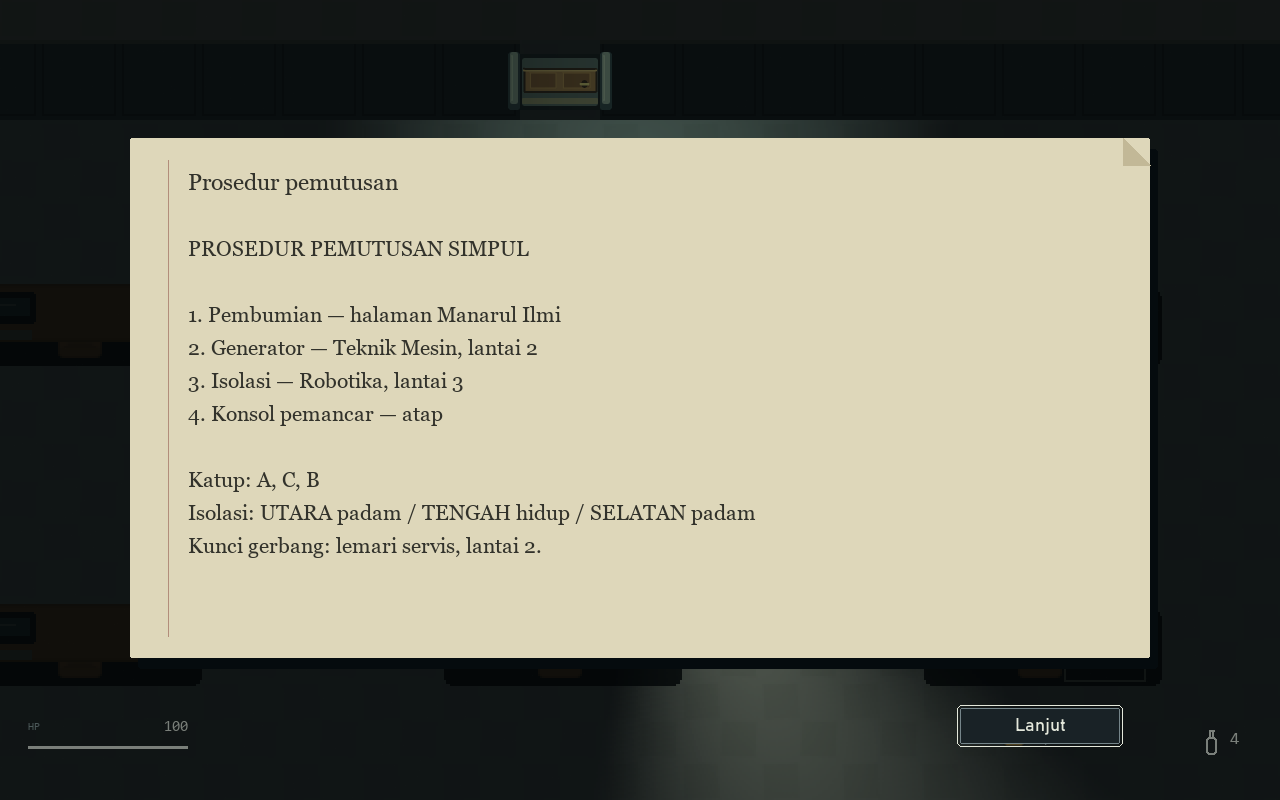
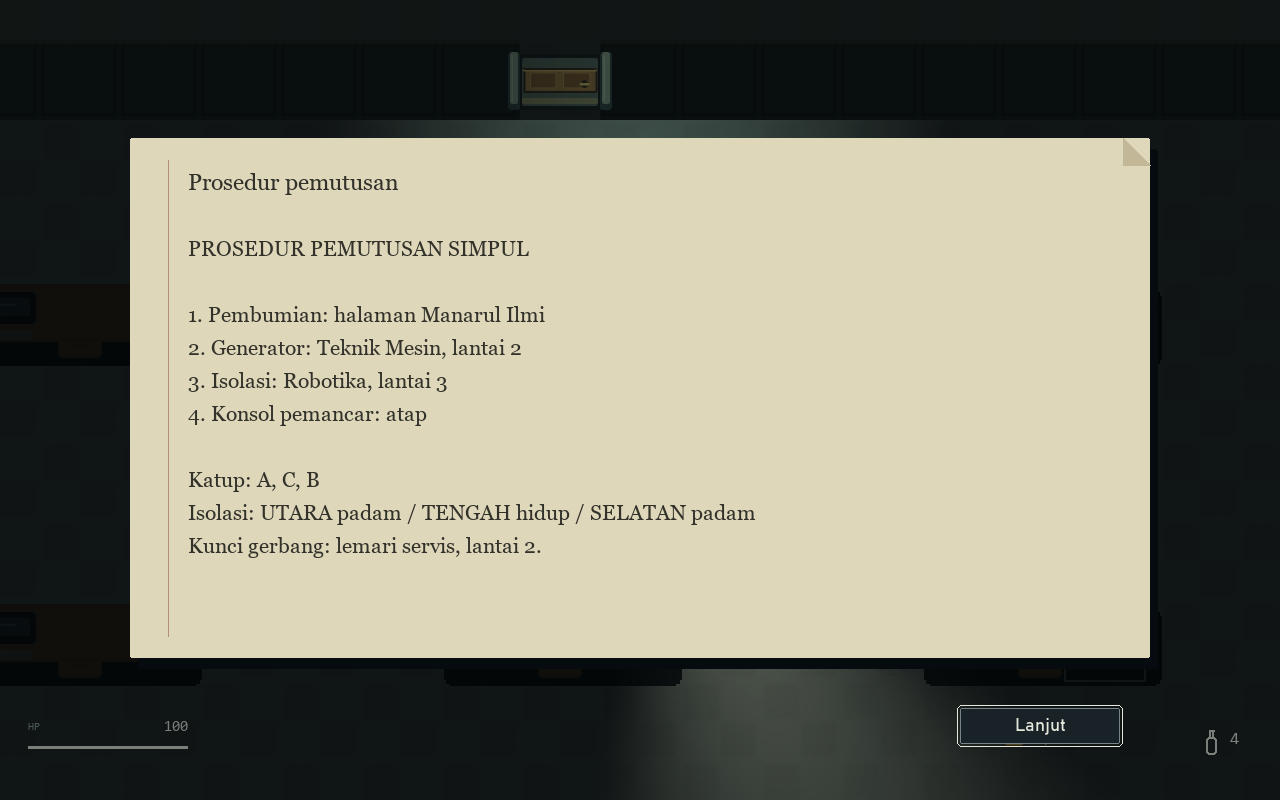
style(copy): polish player-facing wording

Changed region(s): [[0.2188, 0.375, 0.4375, 0.5312]]

diff --git a/horror/narrative.py b/horror/narrative.py
@@ -6,14 +6,14 @@ LEGACY_DOCUMENTS={"Catatan Nara":"rak","Catatan perpustakaan":"rak","Diagram":"j
                   "Buku jaga":"jaga","Kamar Nara":"foto","SIMPUL":"server","Mikrofilm":"film",
                   "Daftar evakuasi":"katalog","Laporan insiden":"insiden"}
 DOCUMENT_TEXT={
-    "rak":"Loker rektorat · 04\nUrutan rak yang kita lewati:\n2 — 4 — 1 — 3\n\nYang berpita merah itu Juru Malam. Jangan tunggu dia menoleh.\n— Nara",
-    "jalur":"KARTU AKSES: kotak sekring Kimia + Elektro\n\nUrutan pemulihan:\n1. AIR — Teknik Lingkungan\n2. MESIN — Teknik Mesin\n3. DATA — Sistem Informasi\n\nSesudahnya: pemancar Taman Alumni.",
+    "rak":"Loker rektorat · 04\nUrutan rak yang kita lewati:\n2, 4, 1, 3\n\nYang berpita merah itu Juru Malam. Jangan tunggu dia menoleh.\nNara",
+    "jalur":"KARTU AKSES: kotak sekring Kimia + Elektro\n\nUrutan pemulihan:\n1. AIR: Teknik Lingkungan\n2. MESIN: Teknik Mesin\n3. DATA: Sistem Informasi\n\nSesudahnya: pemancar Taman Alumni.",
     "jaga":"23.18   Nara menitipkan kartu asrama. Menuju perpustakaan.\n23.47   GERBANG GAGAL.\n\nKunci mekanis: ruang servis pemancar.\nJangan buka jalur utama selama jaringan masih mengulang.\n\nTanda tangan petugas: tidak terbaca.",
-    "foto":"17 / 08 / 1998\n\nKalau aku terdengar seperti rekaman, tanyakan warna tasmu.\n\nSandi server: tahun pada cap proyek, bukan ulang tahunku.\n— Nara",
+    "foto":"17 / 08 / 1998\n\nKalau aku terdengar seperti rekaman, tanyakan warna tasmu.\n\nSandi server: tahun pada cap proyek, bukan ulang tahunku.\nNara",
     "film":"CATATAN 04 / REKAMAN 17 / EVAKUASI 09\n\nBaca bundel sesuai urutan kejadian. Lemari katalog: satu lantai di bawah.\n\nDaftar evakuasi:\nkotak properti dipindahkan ke Graha ITS.",
     "katalog":"Kunci servis: kotak properti Graha.\n\nPanel pemancar:\nUTARA: hidup\nTENGAH: padam\nSELATAN: hidup\n\nPintu atap tidak dikunci.\n\nIa tidak berdiri di bawah lampu. Ia menunggu di bayangannya.",
-    "nara":"Arga,\nPentanahan dulu, lalu generator cadangan, isolasi pemancar, baru konsol atap.\n\nLaporan insidennya ada di rektorat. Aku menunggu di kantin bersama petugas yang terluka.\n\nJangan jawab suara dari ponsel.\n— Nara",
-    "insiden":"PROSEDUR PEMUTUSAN SIMPUL\n\n1. Pembumian — halaman Manarul Ilmi\n2. Generator — Teknik Mesin, lantai 2\n3. Isolasi — Robotika, lantai 3\n4. Konsol pemancar — atap\n\nKatup: A, C, B\nIsolasi: UTARA padam / TENGAH hidup / SELATAN padam\nKunci gerbang: lemari servis, lantai 2.",
+    "nara":"Arga,\nPentanahan dulu, lalu generator cadangan, isolasi pemancar, baru konsol atap.\n\nLaporan insidennya ada di rektorat. Aku menunggu di kantin bersama petugas yang terluka.\n\nJangan jawab suara dari ponsel.\nNara",
+    "insiden":"PROSEDUR PEMUTUSAN SIMPUL\n\n1. Pembumian: halaman Manarul Ilmi\n2. Generator: Teknik Mesin, lantai 2\n3. Isolasi: Robotika, lantai 3\n4. Konsol pemancar: atap\n\nKatup: A, C, B\nIsolasi: UTARA padam / TENGAH hidup / SELATAN padam\nKunci gerbang: lemari servis, lantai 2.",
 }
 
 

diff --git a/horror/story_data.py b/horror/story_data.py
@@ -33,7 +33,7 @@ NOTES={
     "rak":("Catatan perpustakaan","Sketsa loker rektorat, empat roda angka. 'Urutan rak yang kita lewati: 2 - 4 - 1 - 3.' Di pinggir halaman, Nara menggambar sosok dengan pita merah di lehernya: Juru Malam."),
     "jalur":("Diagram distribusi","Kartu akses membuka kotak sekring Teknik Kimia dan Elektro. Pulihkan AIR di Teknik Lingkungan, MESIN di Teknik Mesin, lalu DATA di Sistem Informasi. Sesudahnya periksa pemancar Taman Alumni."),
     "rekaman":("Log pemancar","Semua pesan terkirim pukul 23.47 dari jaringan SIMPUL. Gerbang tidak merespons. Suara Nara menyuruhmu memeriksa buku jaga, tetapi ia mengucapkan namamu dengan jeda yang salah."),
-    "jaga":("Buku jaga","23.18 — Nara menitipkan kartu asrama sebelum menuju perpustakaan. 23.47 — GERBANG GAGAL. Catatan petugas: 'Satu kunci mekanis disimpan di ruang servis pemancar. Jangan buka jalur utama selama jaringan masih mengulang.'"),
+    "jaga":("Buku jaga","23.18: Nara menitipkan kartu asrama sebelum menuju perpustakaan. 23.47: GERBANG GAGAL. Catatan petugas: 'Satu kunci mekanis disimpan di ruang servis pemancar. Jangan buka jalur utama selama jaringan masih mengulang.'"),
     "foto":("Foto di asrama","Foto Nara dan Arga di depan lab. Jas biru Arga, tas kuning yang dijahit ulang; jepit putih Nara. Cap proyek: 17/08/1998. Di baliknya: 'Kalau aku terdengar seperti rekaman, tanyakan warna tasmu. Sandi server: tahun pada cap proyek, bukan ulang tahunku.'"),
     "server":("SIMPUL / catatan server","SIMPUL menyimpan pola suara kampus, lalu memutarnya kembali ketika mendeteksi orang tertinggal. Uji pertama: 1998. Arsip kertas belum dihapus, tersimpan di mikrofilm perpustakaan lantai 3. Frekuensi perawatan: 107,8 MHz."),
     "film":("Mikrofilm 1998","Tiga bundel harus dibaca dalam urutan kejadian: CATATAN 04, REKAMAN 17, EVAKUASI 09. Lemari katalog berada satu lantai di bawah. Daftar barang yang dievakuasi menyebut kotak properti Graha ITS."),

diff --git a/tools/package_release.py b/tools/package_release.py
@@ -35,7 +35,7 @@ def main():
     shutil.copyfile(ROOT / "CHANGELOG.md", dist / "CHANGELOG.md")
     readme = dist / "BACA_DULU.txt"
     guide = (ROOT / "docs/PLAYER_GUIDE.md").read_text(encoding="utf-8")
-    readme.write_text(f"SETELAH JAM MALAM — Versi {VERSION} / Windows x64\n\n" + guide, encoding="utf-8")
+    readme.write_text(f"SETELAH JAM MALAM | Versi {VERSION} / Windows x64\n\n" + guide, encoding="utf-8")
     archive = dist / "SetelahJamMalam-Windows-x64.zip"
     files = [exe, readme, dist / "THIRD_PARTY_NOTICES.md", dist / "CHANGELOG.md",
              docs / "ITS_REFERENCES.md", docs / "PLAYER_GUIDE.md",

diff --git a/main.py b/main.py
@@ -5,7 +5,7 @@ from pathlib import Path
 
 
 def main():
-    parser = argparse.ArgumentParser(description="Setelah Jam Malam — ITS Horror Game")
+    parser = argparse.ArgumentParser(description="Setelah Jam Malam | ITS Horror Game")
     parser.add_argument("--seed", type=int, help="Start a repeatable map immediately")
     parser.add_argument("--story", action="store_true", help="Start the story campaign")
     parser.add_argument("--load-slot", choices=("auto","1","2","3"), help="Load a story save slot")

diff --git a/tests/test_presentation.py b/tests/test_presentation.py
@@ -100,7 +100,7 @@ class PresentationTests(unittest.TestCase):
             rect=(50,200,385 if key=="foto" else 471,390)
             bottom=reader.fitted(a.screen,DOCUMENT_TEXT[key],rect,21,"georgia")
             self.assertLessEqual(bottom,rect[1]+rect[3])
-        self.assertIn("2 — 4 — 1 — 3",DOCUMENT_TEXT["rak"])
+        self.assertIn("2, 4, 1, 3",DOCUMENT_TEXT["rak"])
         self.assertIn("A, C, B",DOCUMENT_TEXT["insiden"])
 
 

diff --git a/docs/ITS_REFERENCES.md b/docs/ITS_REFERENCES.md
@@ -1,10 +1,10 @@
-# Acuan ITS — rilis 0.1
+# Acuan ITS untuk rilis 0.1
 
 Menu menggunakan tiga foto gedung asli dengan skala proporsional, palet horor, kontur, pencahayaan dan kabut saat runtime. Foto sumber tetap utuh. Menu memakai palet malam; exterior pembuka memakai senja. Gambar berganti setiap sembilan detik dan memenuhi viewport dengan crop proporsional tanpa meregangkan bangunan.
 
 | Media | Publikasi resmi | Berkas yang dibundel |
 | --- | --- | --- |
-| Rektorat dan kolam depan | [UKP ITS — Tentang](https://www.its.ac.id/ukp/tentang/) | [Kolam-Rektorat.jpg](https://www.its.ac.id/ukp/wp-content/uploads/sites/167/2024/08/Kolam-Rektorat.jpg) → `assets/campus/photos/rektorat.jpg` |
+| Rektorat dan kolam depan | [Tentang UKP ITS](https://www.its.ac.id/ukp/tentang/) | [Kolam-Rektorat.jpg](https://www.its.ac.id/ukp/wp-content/uploads/sites/167/2024/08/Kolam-Rektorat.jpg) → `assets/campus/photos/rektorat.jpg` |
 | Tower 2 | [Berita peresmian Tower 2 ITS](https://www.its.ac.id/news/its-resmikan-tower-2-guna-menunjang-kebutuhan-akademik/) | [DJI_0954-scaled.jpg](https://www.its.ac.id/news/wp-content/uploads/sites/2/2023/08/DJI_0954-scaled.jpg) → `assets/campus/photos/tower2.jpg` |
 | Informatika saat senja, sesuai foto referensi pengguna | [Departemen Teknik Informatika ITS](https://www.its.ac.id/informatika/) | [IFl-1.jpg](https://www.its.ac.id/informatika/wp-content/uploads/sites/44/2018/03/IFl-1.jpg) → `assets/campus/photos/informatika.jpg` |
 | Lambang ITS berwarna | [Panduan Identitas Visual ITS](https://www.its.ac.id/tentang/panduan-identitas-visual/) → folder Lambang | [LAMBANG ITS.png](https://drive.google.com/file/d/1HNRAJR0T24f42mlCu0iTwwlJIz0YzgXz/view) → `assets/branding/its-crest.png` |
@@ -20,4 +20,4 @@ Lantai dasar kini level tersendiri **64×48 tile / 2560×1920 unit**. Lab proyek
 
 Lantai 2 dan 3 masing-masing **38×44 tile**. Lantai 3 mengikuti topologi/lab pada denah UTBK. **Ruangan dasar dan lantai 2 diadaptasi untuk cerita**, karena denah lengkap kedua lantai itu tidak tersedia dalam folder acuan. Jumlah tile, fungsi ruang proyek, furnitur dan detail akses bukan ukuran bangunan hasil pengukuran atau replika 1:1. [Fasilitas Informatika ITS](https://www.its.ac.id/informatika/fasilitas/) menjadi acuan fungsi umum ruang.
 
-Peta kampus yang lebih luas tetap memakai posisi relatif dari referensi sebelumnya. Tower 2 pada home screen berbeda dari menara pemancar fiktif dalam cerita. Save versi 1–6 tetap dimuat: progres dan barang dijaga; posisi pada interior dasar lama dipindah ke area baru. Prolog lama yang masih aktif dimulai kembali dengan naskah baru; prolog yang sudah selesai tidak diputar ulang.
+Peta kampus yang lebih luas tetap memakai posisi relatif dari referensi sebelumnya. Tower 2 pada home screen berbeda dari menara pemancar fiktif dalam cerita. Save versi 1 sampai 6 tetap dimuat: progres dan barang dijaga; posisi pada interior dasar lama dipindah ke area baru. Prolog lama yang masih aktif dimulai kembali dengan naskah baru; prolog yang sudah selesai tidak diputar ulang.

diff --git a/THIRD_PARTY_NOTICES.md b/THIRD_PARTY_NOTICES.md
@@ -6,10 +6,10 @@ Layout, susunan furnitur, detail kampus, HUD, pencahayaan dan sebagian ambience/
 
 Runtime dan build menggunakan:
 
-- **Python 3.12.10** — https://www.python.org/ — license disertakan dalam folder `licenses` pada paket portable.
-- **pygame-ce 2.5.8** — https://github.com/pygame-community/pygame-ce — teks LGPL yang disertakan oleh distribusi pygame-ce disalin ke folder `licenses`.
-- **SDL dan library audio/gambar terkait** yang dikemas oleh distribusi pygame-ce — informasi komponen tersedia di repositori pygame-ce.
-- **PyInstaller 6.22.3** untuk membuat executable — https://pyinstaller.org/.
+- **Python 3.12.10** (https://www.python.org/). Lisensi disertakan dalam folder `licenses` pada paket portable.
+- **pygame-ce 2.5.8** (https://github.com/pygame-community/pygame-ce). Teks LGPL yang disertakan oleh distribusi pygame-ce disalin ke folder `licenses`.
+- **SDL dan library audio/gambar terkait** dikemas oleh distribusi pygame-ce. Informasi komponen tersedia di repositori pygame-ce.
+- **PyInstaller 6.22.3** digunakan untuk membuat executable (https://pyinstaller.org/).
 
 Font antarmuka menggunakan font yang tersedia di sistem Windows; file font Windows tidak disalin ke paket game. pygame menyediakan fallback jika font pilihan tidak tersedia.
 
@@ -38,8 +38,8 @@ Cerita Nara dan puzzle dibuat untuk proyek ini. Inspirasi Ao Oni terbatas pada r
 
 ## Musik alternatif dan ambience
 
-- **Night Shift**, iamoneabe, CC0: https://opengameart.org/content/night-shift — berkas `nightshift_0.mp3`, musik alternatif 269,27 detik; gain/crossfade saat runtime.
-- **Crickets Ambient Noise — loopable**, Wolfgang_ / Ted Kerr, CC0: https://opengameart.org/content/crickets-ambient-noise-loopable — `crickets_1.mp3`, ambience luar ruang dengan gain transisi.
+- **Night Shift**, iamoneabe, CC0 (https://opengameart.org/content/night-shift). Berkas `nightshift_0.mp3` menyediakan musik alternatif 269,27 detik dengan gain/crossfade saat runtime.
+- **Crickets Ambient Noise (loopable)**, Wolfgang_ / Ted Kerr, CC0 (https://opengameart.org/content/crickets-ambient-noise-loopable). Berkas `crickets_1.mp3` menyediakan ambience luar ruang dengan gain transisi.
 - Sembilan klip tambahan dari **16 Monster Growls** yang sama (StarNinjas, CC0). Total empat rekaman per jenis makhluk, tanpa pengulangan langsung. Nomor sumber: Penjaga 1/2/3/4, Pendengar 5/6/7/8, Penyergap 10/11/12/14.
 
 Semua tambahan dicatat bersama SHA-256 di `assets/story_audio/manifest.json`; kredit dibundel dalam `licenses/Story-audio-CC0.txt`. Bank aspal dan metal merupakan adaptasi kecil pitch dari langkah beton Kenney, bukan rekaman lokasi kampus. Hum mekanis disintesis. Karakter, siluet bayangan, prop motor/tangga/pemancar, dan tile rumput/aspal/trotoar dibuat dari kode. Floorplan, jumlah lantai yang bisa dimainkan, serta menara servis adalah rancangan fiksi untuk permainan.

diff --git a/docs/ALGORITHMS.md b/docs/ALGORITHMS.md
@@ -35,13 +35,13 @@ HUD memisahkan tujuan akhir dari tindakan berikutnya. `guidance.py` mencari lang
 
 ## Persistensi
 
-Save schema 7 menyimpan progres, kondisi pemain, level, pintu, item, puzzle, monster, pendamping dan presentasi aktif. Write atomik serta backup menjaga save terakhir yang valid. Restore menerima schema 1–7 dan memigrasikan interior Informatika lama. Versi produk 0.1 terpisah dari schema tersebut.
+Save schema 7 menyimpan progres, kondisi pemain, level, pintu, item, puzzle, monster, pendamping dan presentasi aktif. Write atomik serta backup menjaga save terakhir yang valid. Restore menerima schema versi 1 sampai 7 dan memigrasikan interior Informatika lama. Versi produk 0.1 terpisah dari schema tersebut.
 
 ## Bacaan konsep
 
 - [Poole & Mackworth, local search dan Simulated Annealing](https://artint.info/3e/html/ArtInt3e.Ch4.S6.html)
 - [Shaker, Togelius & Nelson, Procedural Content Generation in Games](https://www.pcgbook.com/)
 - [Red Blob Games, A*](https://www.redblobgames.com/pathfinding/a-star/introduction.html)
-- [Michael Booth, The AI Systems of Left 4 Dead](https://cdn.fastly.steamstatic.com/apps/valve/2009/ai_systems_of_l4d_mike_booth.pdf) — acuan variasi intensitas; game ini belum memiliki director adaptif global.
+- [Michael Booth, The AI Systems of Left 4 Dead](https://cdn.fastly.steamstatic.com/apps/valve/2009/ai_systems_of_l4d_mike_booth.pdf) menjadi acuan variasi intensitas. Game ini belum memiliki director adaptif global.
 
 Implementasi berada di `horror/world.py`, `simulation.py`, `guidance.py`, dan modul rendering. [Arsitektur](ARCHITECTURE.md) · [verifikasi](QA.md).

diff --git a/README.md b/README.md
@@ -1,4 +1,4 @@
-# Setelah Jam Malam — 0.1
+# Setelah Jam Malam v0.1
 
 Game horor top-down 2D berlatar interpretasi fiksi kampus ITS. Arga menerima pesan dari ponsel Nara yang tertinggal. Jelajahi kampus, baca bukti, selesaikan puzzle, dan cari jalan pulang bersama Nara.
 
@@ -25,7 +25,7 @@ Mulai dari **Easy**. Buka **Cara main** untuk petunjuk lengkap.
 | E | Interaksi, pintu, tangga; tahan pada panel tertentu |
 | F / Q / M | Senter / lempar botol / peta |
 | B atau Tab / J | Tas / catatan cerita |
-| 1–4 | P3K, minuman energi, alarm, lampu kimia |
+| 1, 2, 3, 4 | P3K, minuman energi, alarm, lampu kimia |
 | E / Enter / Space saat dialog | Tampilkan sisa teks, lalu lanjut |
 | F5 / F9 | Simpan / muat cerita |
 | Esc / F11 | Jeda / ganti layar penuh |
@@ -52,7 +52,7 @@ Untuk pengembangan dan build:
 .\Build.bat
 ```
 
-`horror/version.py` menjadi sumber nomor rilis **0.1**, termasuk metadata Windows **0.1.0.0**. Format save tetap **7**, dengan pembaca save 1–7. Data pengguna berada di `%APPDATA%/ITS-Horror-Game/`; perapian source/build tidak menghapus progres.
+`horror/version.py` menjadi sumber nomor rilis **0.1**, termasuk metadata Windows **0.1.0.0**. Format save tetap **7**, dengan pembaca save versi 1 sampai 7. Data pengguna berada di `%APPDATA%/ITS-Horror-Game/`; perapian source/build tidak menghapus progres.
 
 ## Dokumentasi
 

diff --git a/docs/STORY_MODE.md b/docs/STORY_MODE.md
@@ -18,7 +18,7 @@ E pada flight tangga memindahkan lantai; state tiap level dipertahankan. Perpind
 
 ## Save dan kompatibilitas
 
-Autosave terpisah dari tiga slot manual. Save schema **7** memuat HP/stamina, posisi/floor, barang, pintu, puzzle, dialog, timer cutscene, pendamping, monster serta state setiap layer. `dialogue_time` opsional mempertahankan progres huruf. Schema **1–7** tetap diterima; posisi interior dasar lama dimigrasikan dan prolog lama yang belum selesai dapat dimulai kembali dengan timeline baru. Prolog yang selesai tidak diulang.
+Autosave terpisah dari tiga slot manual. Save schema **7** memuat HP/stamina, posisi/floor, barang, pintu, puzzle, dialog, timer cutscene, pendamping, monster serta state setiap layer. `dialogue_time` opsional mempertahankan progres huruf. Schema versi **1 sampai 7** tetap diterima; posisi interior dasar lama dimigrasikan dan prolog lama yang belum selesai dapat dimulai kembali dengan timeline baru. Prolog yang selesai tidak diulang.
 
 Data ditulis atomik ke `%APPDATA%/ITS-Horror-Game/saves/`; `.bak` menyimpan salinan valid sebelumnya. Import `story.json` lama tidak menghapus aslinya. Muat menjaga kondisi save; retry setelah kalah memulihkan HP/stamina dan memberi jeda aman. Profil pencapaian terpisah dari slot perjalanan. Versi produk 0.1 tidak mengganti nomor schema.
 

diff --git a/docs/INVENTORY.md b/docs/INVENTORY.md
@@ -18,7 +18,7 @@ Kapasitas total 12 ruang. Bekal awal berisi perban, minuman, lampu kimia dan bot
 
 Supply di dunia ditentukan seed dan ditaruh pada tile yang terjangkau, bukan pada daun pintu. Ada 13 supply tambahan di kampus/Escape dan tiga pada setiap lantai atas, di luar botol/P3K lama. Item bisa diletakkan lalu diambil kembali. Tas penuh atau tumpukan maksimal tidak menghilangkan item. Barang yang berasal dari tas tidak dihitung sebagai temuan baru untuk achievement.
 
-Barang penting—kartu, kunci, ponsel, foto dan sekring—ditampilkan di pouch terpisah, tidak mengambil ruang, dan tidak bisa dibuang. Flag listrik seperti Jalur bumi/Daya cadangan tetap berada dalam progres cerita, bukan diperlakukan sebagai barang fisik tas.
+Barang penting seperti kartu, kunci, ponsel, foto dan sekring ditampilkan di pouch terpisah, tidak mengambil ruang, dan tidak bisa dibuang. Flag listrik seperti Jalur bumi/Daya cadangan tetap berada dalam progres cerita, bukan diperlakukan sebagai barang fisik tas.
 
 Ikon menggunakan gambar prosedural beresolusi tinggi dengan tepian diperhalus, palet material dan bentuk yang sama di UI/dunia. [Item art](screenshots/item-art.png), [backpack](screenshots/backpack.png), [pouch](screenshots/backpack-keys.png), [alat di dunia](screenshots/field-supplies.png).
 

diff --git a/CHANGELOG.md b/CHANGELOG.md
@@ -1,6 +1,6 @@
 # Changelog
 
-## 0.1 — 28 Oktober 2026
+## 0.1 (28 Oktober 2026)
 
 Rilis awal pengembangan. Nomor patch yang pernah muncul selama pengembangan merupakan penanda internal; kondisi permainan saat ini ditetapkan sebagai versi 0.1.
 
